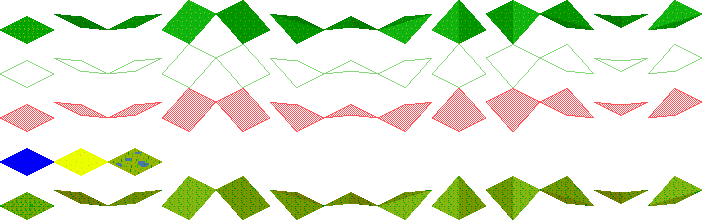
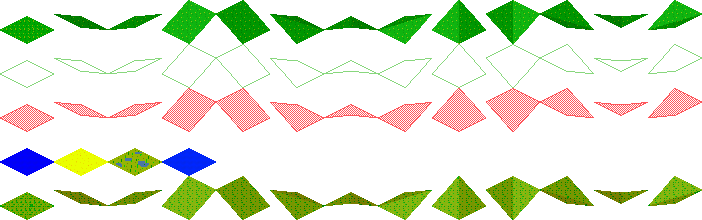
Add shore (and thousands of bugs)

Changed region(s): [[0.2393, 0.6818, 0.2991, 0.7909]]

diff --git a/src/action/actions/constructingBoat.js b/src/action/actions/constructingBoat.js
@@ -12,6 +12,7 @@ import spendMinutes from '../spendMinutes.js';
 import tileEdges from '../../terrain/tiles/tileEdges.js';
 import directions from '../../terrain/directions.js';
 import goToCenterOfTile from '../../guy/routing/goToCenterOfTile.js';
+import isSea from '../../terrain/tiles/isSea.js';
 
 const hit = () => {
   startGuyAnimation(spriteTypes.GUY_HITTING);
@@ -21,7 +22,7 @@ const hit = () => {
 };
 
 const moveBoatToCoast = (tile) => {
-  const neighbor = findNeighbor(tile => tile.ground === grounds.SEA);
+  const neighbor = findNeighbor(isSea);
   const edgePosition = tileEdges[tile.type][neighbor.direction];
   tile.object.x = edgePosition.x;
   tile.object.y = edgePosition.y;
@@ -34,8 +35,8 @@ const constructingBoat = {
   construction: constructionTypes.BOAT,
 
   getImpossibleText: (tile) => {
-    const nextToSea = findNeighbor(tile => tile.ground === grounds.SEA);
-    if (!tile.object && nextToSea) {
+    const nextToSea = findNeighbor(isSea);
+    if (!tile.object && tile.ground === grounds.BEACH && nextToSea) {
       return null;
     }
     return texts.IMPOSSIBLE_CONSTRUCTING_BOAT;

diff --git a/src/action/actions/sleeping.js b/src/action/actions/sleeping.js
@@ -1,6 +1,5 @@
 import goToOnTile from '../../guy/routing/goToOnTile.js';
 import texts from '../../interface/text/texts.js';
-import grounds from '../../terrain/tiles/grounds.js';
 import isUsableTent from '../../terrain/objects/isUsableTent.js';
 import isUsableTreeHouse from '../../terrain/objects/isUsableTreeHouse.js';
 import startGuyAnimation from '../../guy/startGuyAnimation.js';
@@ -10,6 +9,7 @@ import sounds from '../../sounds/sounds.js';
 import changeHealth from '../../guy/changeHealth.js';
 import spendMinutes from '../spendMinutes.js';
 import goToCenterOfTile from '../../guy/routing/goToCenterOfTile.js';
+import isSea from '../../terrain/tiles/isSea.js';
 
 const goToSleepingPlace = (tile) => {
   if (isUsableTent(tile))
@@ -72,7 +72,7 @@ const standUp = (tile) => {
 
 const sleeping = {
   getImpossibleText: (tile) => {
-    if (tile.ground !== grounds.SEA) {
+    if (!isSea(tile)) {
       return null;
     }
     return texts.IMPOSSIBLE_NO_SLEEPING_ON_BOAT;

diff --git a/src/terrain/setGrounds.js b/src/terrain/setGrounds.js
@@ -14,6 +14,18 @@ const initGrounds = () => {
 };
 
 const isOpenSea = (x, y) => {
+  for (let xOffset = -2; xOffset <= 2; xOffset++) {
+    for (let yOffset = -2; yOffset <= 2; yOffset++) {
+      const neighborTile = state.terrain[x + xOffset]?.[y + yOffset];
+      if (neighborTile && neighborTile.type !== tileTypes.FLAT) {
+        return false;
+      }
+    }
+  }
+  return true;
+};
+
+const isShore = (x, y) => {
   for (let xOffset = -1; xOffset <= 1; xOffset++) {
     for (let yOffset = -1; yOffset <= 1; yOffset++) {
       const neighborTile = state.terrain[x + xOffset]?.[y + yOffset];
@@ -30,6 +42,10 @@ const setSea = (x, y) => {
   if (tile && !tile.ground && tile.type === tileTypes.FLAT && tile.height === 0) {
     if (isOpenSea(x, y)) {
       tile.ground = grounds.SEA;
+    } else if (isShore(x, y)) {
+      tile.ground = grounds.SHORE;
+    }
+    if (tile.ground) {
       tile.object = createWaves();
       setSea(x, y - 1);
       setSea(x + 1, y);

diff --git a/src/terrain/addPirateWreck.js b/src/terrain/addPirateWreck.js
@@ -1,12 +1,13 @@
 import spriteTypes from '../images/spriteTypes.js';
 import state from '../state/state.js';
 import grounds from './tiles/grounds.js';
+import isSea from './tiles/isSea.js';
 import tileEdges from './tiles/tileEdges.js';
 
 const isGoodPosition = (x, y) => {
   const terrain = state.terrain;
 
-  if (terrain[x][y].ground !== grounds.SEA) {
+  if (!isSea(terrain[x][y])) {
     return false;
   }
 
@@ -19,7 +20,7 @@ const isGoodPosition = (x, y) => {
   for (let neighborX = Math.max(0, x - 1); neighborX <= Math.min(x, terrain.length - 1); neighborX++) {
     for (let neighborY = Math.max(0, y - 1); neighborY <= Math.min(y + 1, terrain[0].length - 1); neighborY++) {
       if (neighborX !== x && neighborY !== y) {
-        if (terrain[neighborX][neighborY].ground !== grounds.SEA) {
+        if (terrain[neighborX][neighborY].ground === grounds.BEACH) {
           return true;
         }
       }    

diff --git a/src/action/actions/looking.js b/src/action/actions/looking.js
@@ -1,11 +1,11 @@
 import texts from '../../interface/text/texts.js';
-import grounds from '../../terrain/tiles/grounds.js';
 import spriteTypes from '../../images/spriteTypes.js';
 import startGuyAnimation from '../../guy/startGuyAnimation.js';
 import spendMinutes from '../spendMinutes.js';
 import goToCenterOfTile from '../../guy/routing/goToCenterOfTile.js';
 import discoverTerrain from '../../guy/discoverTerrain.js';
 import changeWaterAndFood from '../../guy/changeWaterAndFood.js';
+import isSea from '../../terrain/tiles/isSea.js';
 
 const look = (distance) => {
   startGuyAnimation(spriteTypes.GUY_LOOKING);
@@ -16,7 +16,7 @@ const look = (distance) => {
 
 const looking = {
   getImpossibleText: (tile) => {
-    if (tile.ground !== grounds.SEA) {
+    if (!isSea(tile)) {
       return null;
     }
     return texts.IMPOSSIBLE_NO_LOOKING_ON_BOAT;

diff --git a/src/action/actions/constructingFireplace.js b/src/action/actions/constructingFireplace.js
@@ -8,7 +8,8 @@ import changeWaterAndFood from '../../guy/changeWaterAndFood.js';
 import startGuyAnimation from '../../guy/startGuyAnimation.js';
 import spendMinutes from '../spendMinutes.js';
 import construct from '../../construction/construct.js';
-import goToCenterOfTile from '../../guy/routing/goToCenterOfTile.js';
+import grounds from '../../terrain/tiles/grounds.js';
+import isSea from '../../terrain/tiles/isSea.js';
 
 const sitDown = () => {
   startGuyAnimation(spriteTypes.GUY_LAYING_DOWN);
@@ -32,7 +33,7 @@ const constructingFireplace = {
   construction: constructionTypes.FIREPLACE,
 
   getImpossibleText: (tile) => {
-    if (!tile.object && tile.type === tileTypes.FLAT) {
+    if (!tile.object && tile.type === tileTypes.FLAT && !isSea(tile)) {
       return null;
     } 
     return texts.IMPOSSIBLE_CONSTRUCTING_FIREPLACE;

diff --git a/src/terrain/addRiver.js b/src/terrain/addRiver.js
@@ -2,6 +2,7 @@ import state from '../state/state.js';
 import directions from './directions.js';
 import createRiverObject from './objects/createRiverObject.js';
 import grounds from './tiles/grounds.js';
+import isSea from './tiles/isSea.js';
 import tileTypes from './tiles/tileTypes.js';
 import updateWetlands from './updateWetlands.js';
 
@@ -40,7 +41,7 @@ const hasEndReached = (tile, position, fromDirection) => {
     x: position.x + xDiff[toDirection],
     y: position.y + yDiff[toDirection],
   };
-  return state.terrain[nextPosition.x]?.[nextPosition.y].ground === grounds.SEA;
+  return isSea(state.terrain[nextPosition.x]?.[nextPosition.y]);
 };
 
 const isAlreadyRiver = (river, position) => river.some((step) => step.position.x === position.x && step.position.y === position.y);

diff --git a/src/action/actions/shoveling.js b/src/action/actions/shoveling.js
@@ -7,9 +7,9 @@ import openPaper from '../../interface/text/openPaper.js';
 import texts from '../../interface/text/texts.js';
 import sounds from '../../sounds/sounds.js';
 import state from '../../state/state.js';
-import grounds from '../../terrain/tiles/grounds.js';
 import tileTypes from '../../terrain/tiles/tileTypes.js';
 import spendMinutes from '../spendMinutes.js';
+import isSea from '../../terrain/tiles/isSea.js';
 
 const shovel = () => {
   startGuyAnimation(spriteTypes.GUY_SHOVELING);
@@ -29,7 +29,7 @@ const findTreasure = () => {
 
 const shoveling = {
   getImpossibleText: (tile) => {
-    if (tile.ground !== grounds.SEA &&
+    if (!isSea(tile) &&
       tile.type === tileTypes.FLAT &&
       !tile.object) {
       return null;

diff --git a/src/treasure/hideTreasure.js b/src/treasure/hideTreasure.js
@@ -1,6 +1,7 @@
 import grounds from '../terrain/tiles/grounds.js';
 import tileTypes from '../terrain/tiles/tileTypes.js';
 import state from '../state/state.js';
+import isSea from '../terrain/tiles/isSea.js';
 
 const hideTreasure = () => {
   const terrain = state.terrain;
@@ -9,7 +10,10 @@ const hideTreasure = () => {
     const y = Math.floor(Math.random() * (terrain[0].length - 1));
     const tile = terrain[x][y];
     
-    if (!tile.object && tile.type === tileTypes.FLAT && tile.ground !== grounds.QUICKSAND && tile.ground !== grounds.SEA) {
+    if (!tile.object && 
+      tile.type === tileTypes.FLAT && 
+      tile.ground !== grounds.QUICKSAND && 
+      !isSea(tile)) {
       return { 
         x, 
         y

diff --git a/src/terrain/addTrees.js b/src/terrain/addTrees.js
@@ -3,6 +3,7 @@ import spriteTypes from '../images/spriteTypes.js';
 import state from '../state/state.js';
 import calculatePositionInTile from './tiles/calculatePositionInTile.js';
 import grounds from './tiles/grounds.js';
+import isSea from './tiles/isSea.js';
 
 const getRandomTree = () => {
   const nonBigTrees = [ 
@@ -42,7 +43,10 @@ const addTrees = () => {
 
   state.terrain.forEach((terrainColumn) => {
     terrainColumn.forEach((tile) => {
-      if (tile.object || tile.ground === grounds.QUICKSAND || tile.ground === grounds.SEA || Math.random() > 0.3) {
+      if (tile.object || 
+        tile.ground === grounds.QUICKSAND || 
+        isSea(tile) || 
+        Math.random() > 0.3) {
         return;
       }
 

diff --git a/src/action/actions/constructingTent.js b/src/action/actions/constructingTent.js
@@ -8,6 +8,7 @@ import tileTypes from '../../terrain/tiles/tileTypes.js';
 import spendMinutes from '../spendMinutes.js';
 import construct from '../../construction/construct.js';
 import goToCenterOfTile from '../../guy/routing/goToCenterOfTile.js';
+import isSea from '../../terrain/tiles/isSea.js';
 
 const knotSouth = () => {
   startGuyAnimation(spriteTypes.GUY_KNOTTING_SOUTH);
@@ -37,7 +38,7 @@ const constructingTent = {
   construction: constructionTypes.TENT,
 
   getImpossibleText: (tile) => {
-    if (!tile.object && tile.type === tileTypes.FLAT) {
+    if (!tile.object && tile.type === tileTypes.FLAT && !isSea(tile)) {
       return null;
     }
     return texts.IMPOSSIBLE_CONSTRUCTING_TENT;

diff --git a/src/action/actions/constructingSos.js b/src/action/actions/constructingSos.js
@@ -9,6 +9,7 @@ import startGuyAnimation from '../../guy/startGuyAnimation.js';
 import spendMinutes from '../spendMinutes.js';
 import construct from '../../construction/construct.js';
 import goToCenterOfTile from '../../guy/routing/goToCenterOfTile.js';
+import isSea from '../../terrain/tiles/isSea.js';
 
 const sitDown = () => {
   startGuyAnimation(spriteTypes.GUY_LAYING_DOWN);
@@ -26,7 +27,7 @@ const constructingSos = {
   construction: constructionTypes.SOS,
 
   getImpossibleText: (tile) => {
-    if (!tile.object && tile.type === tileTypes.FLAT) {
+    if (!tile.object && tile.type === tileTypes.FLAT && !isSea(tile)) {
       return null;
     }
     return texts.IMPOSSIBLE_CONSTRUCTING_SOS;
